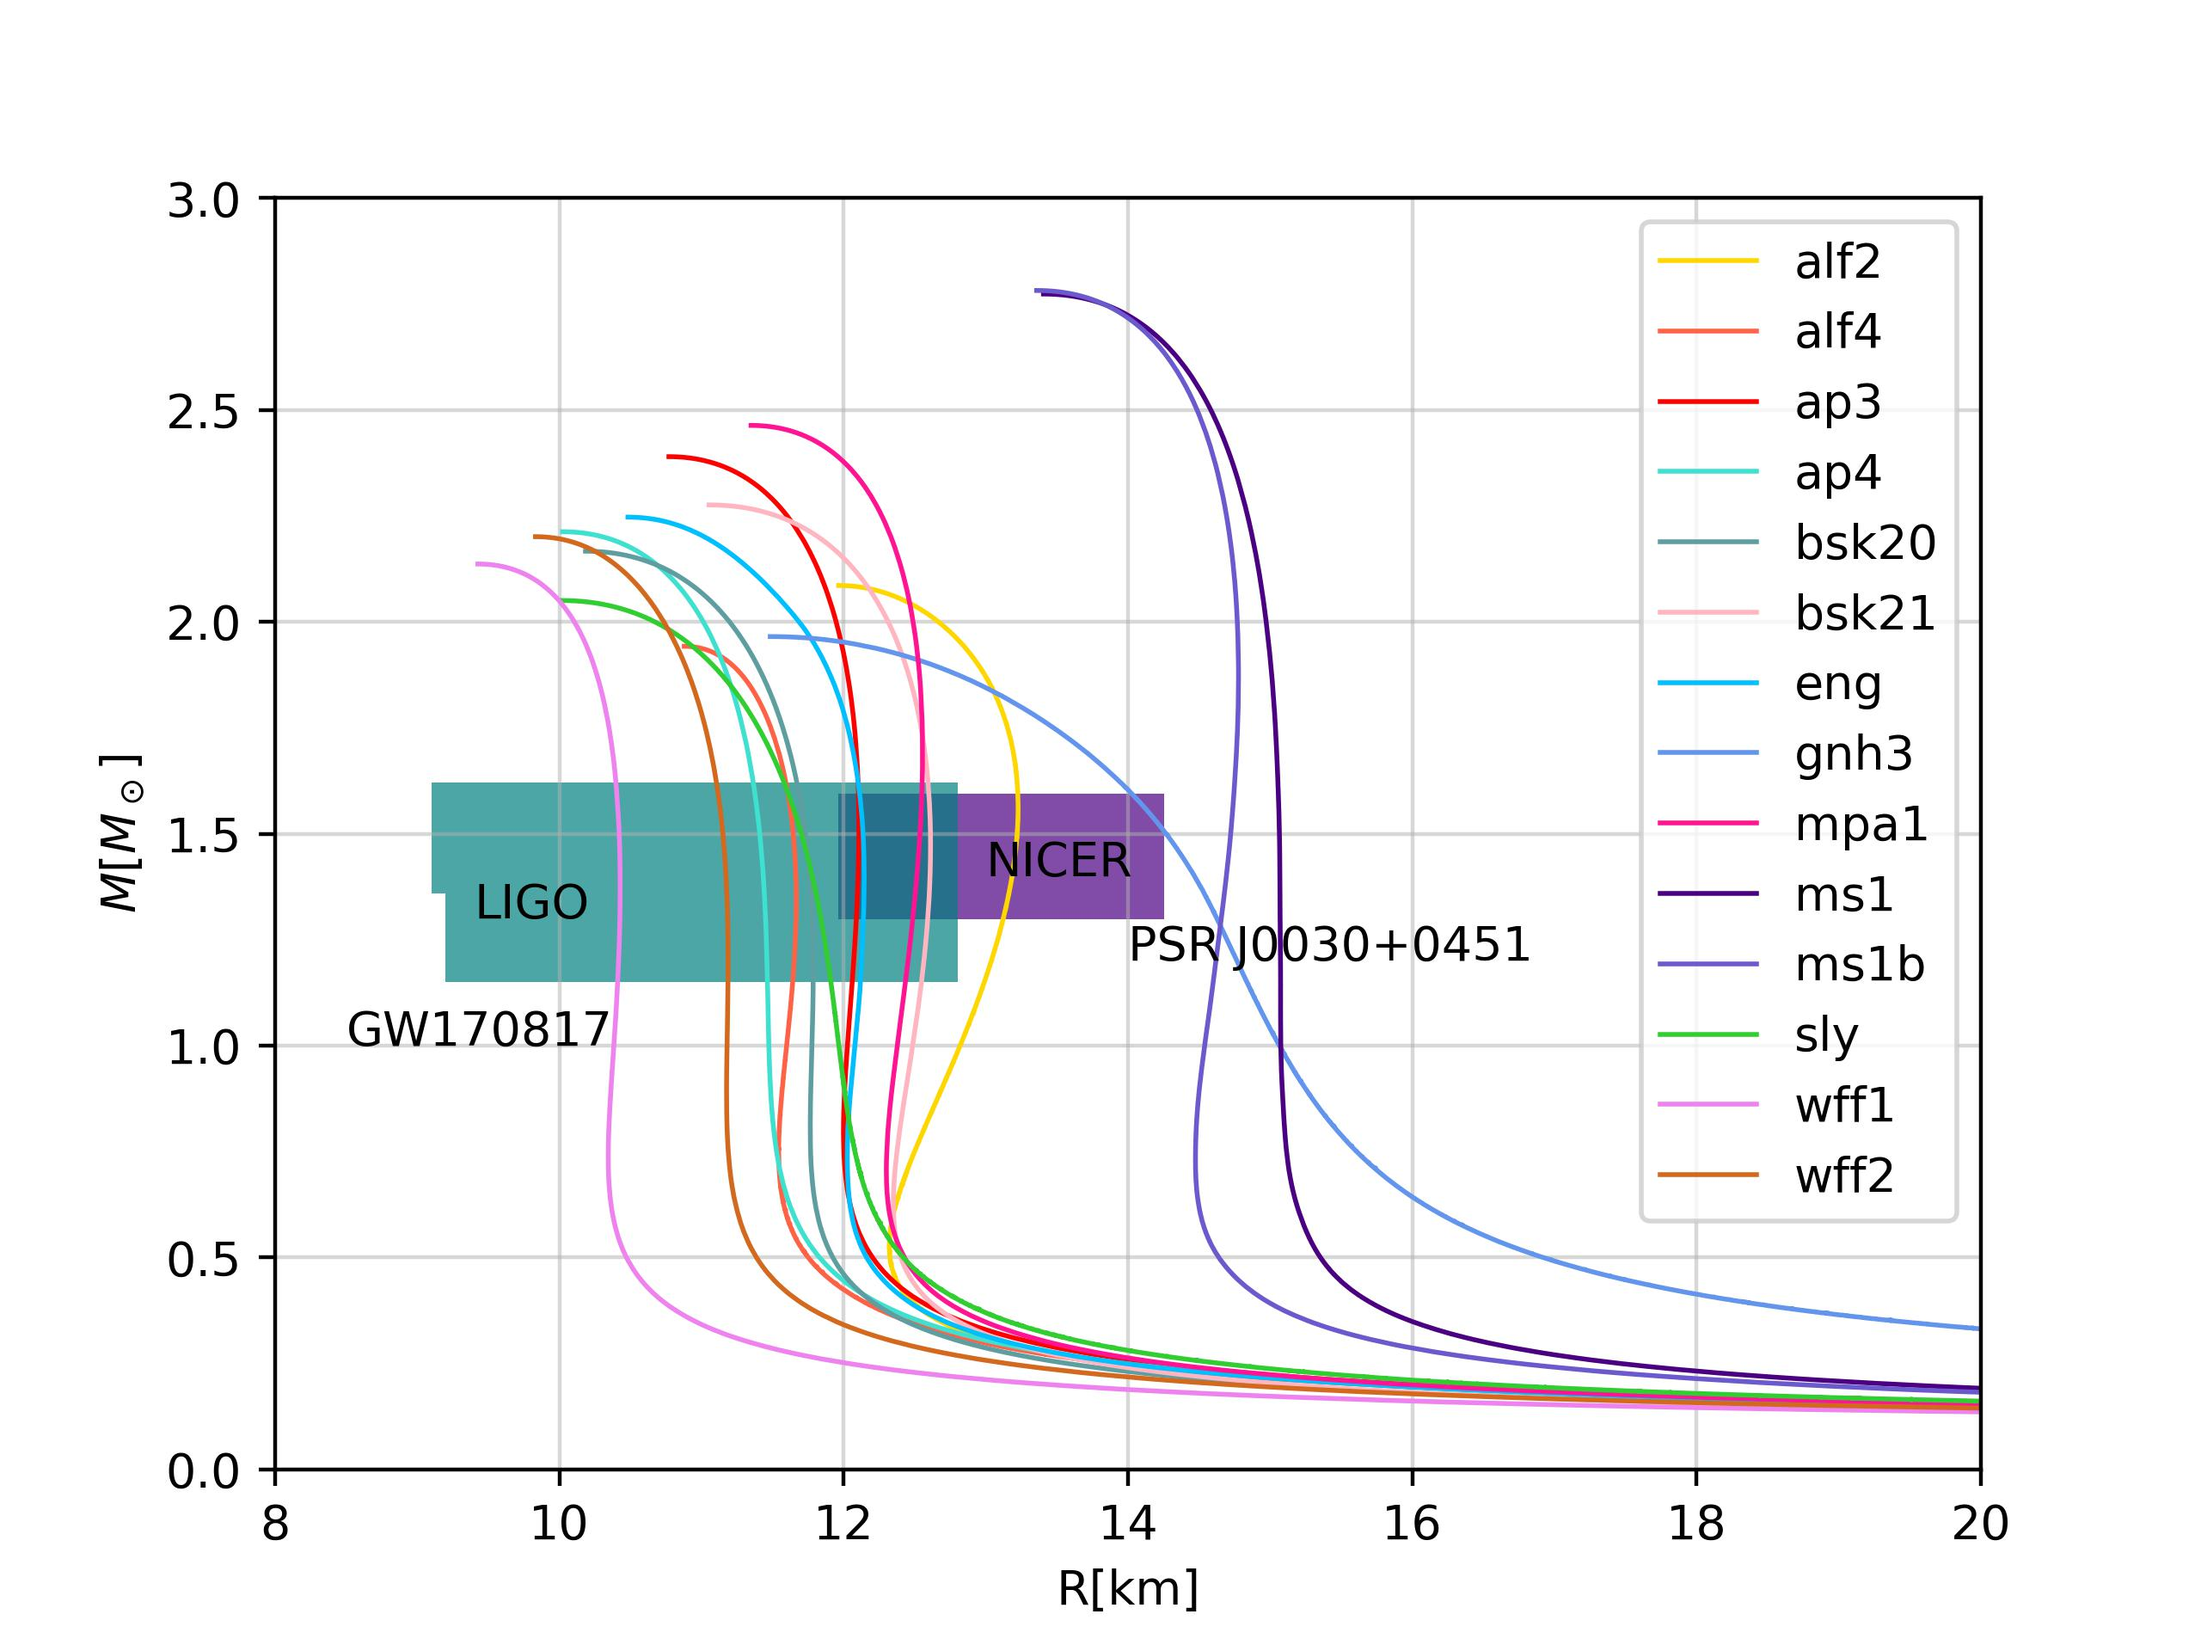
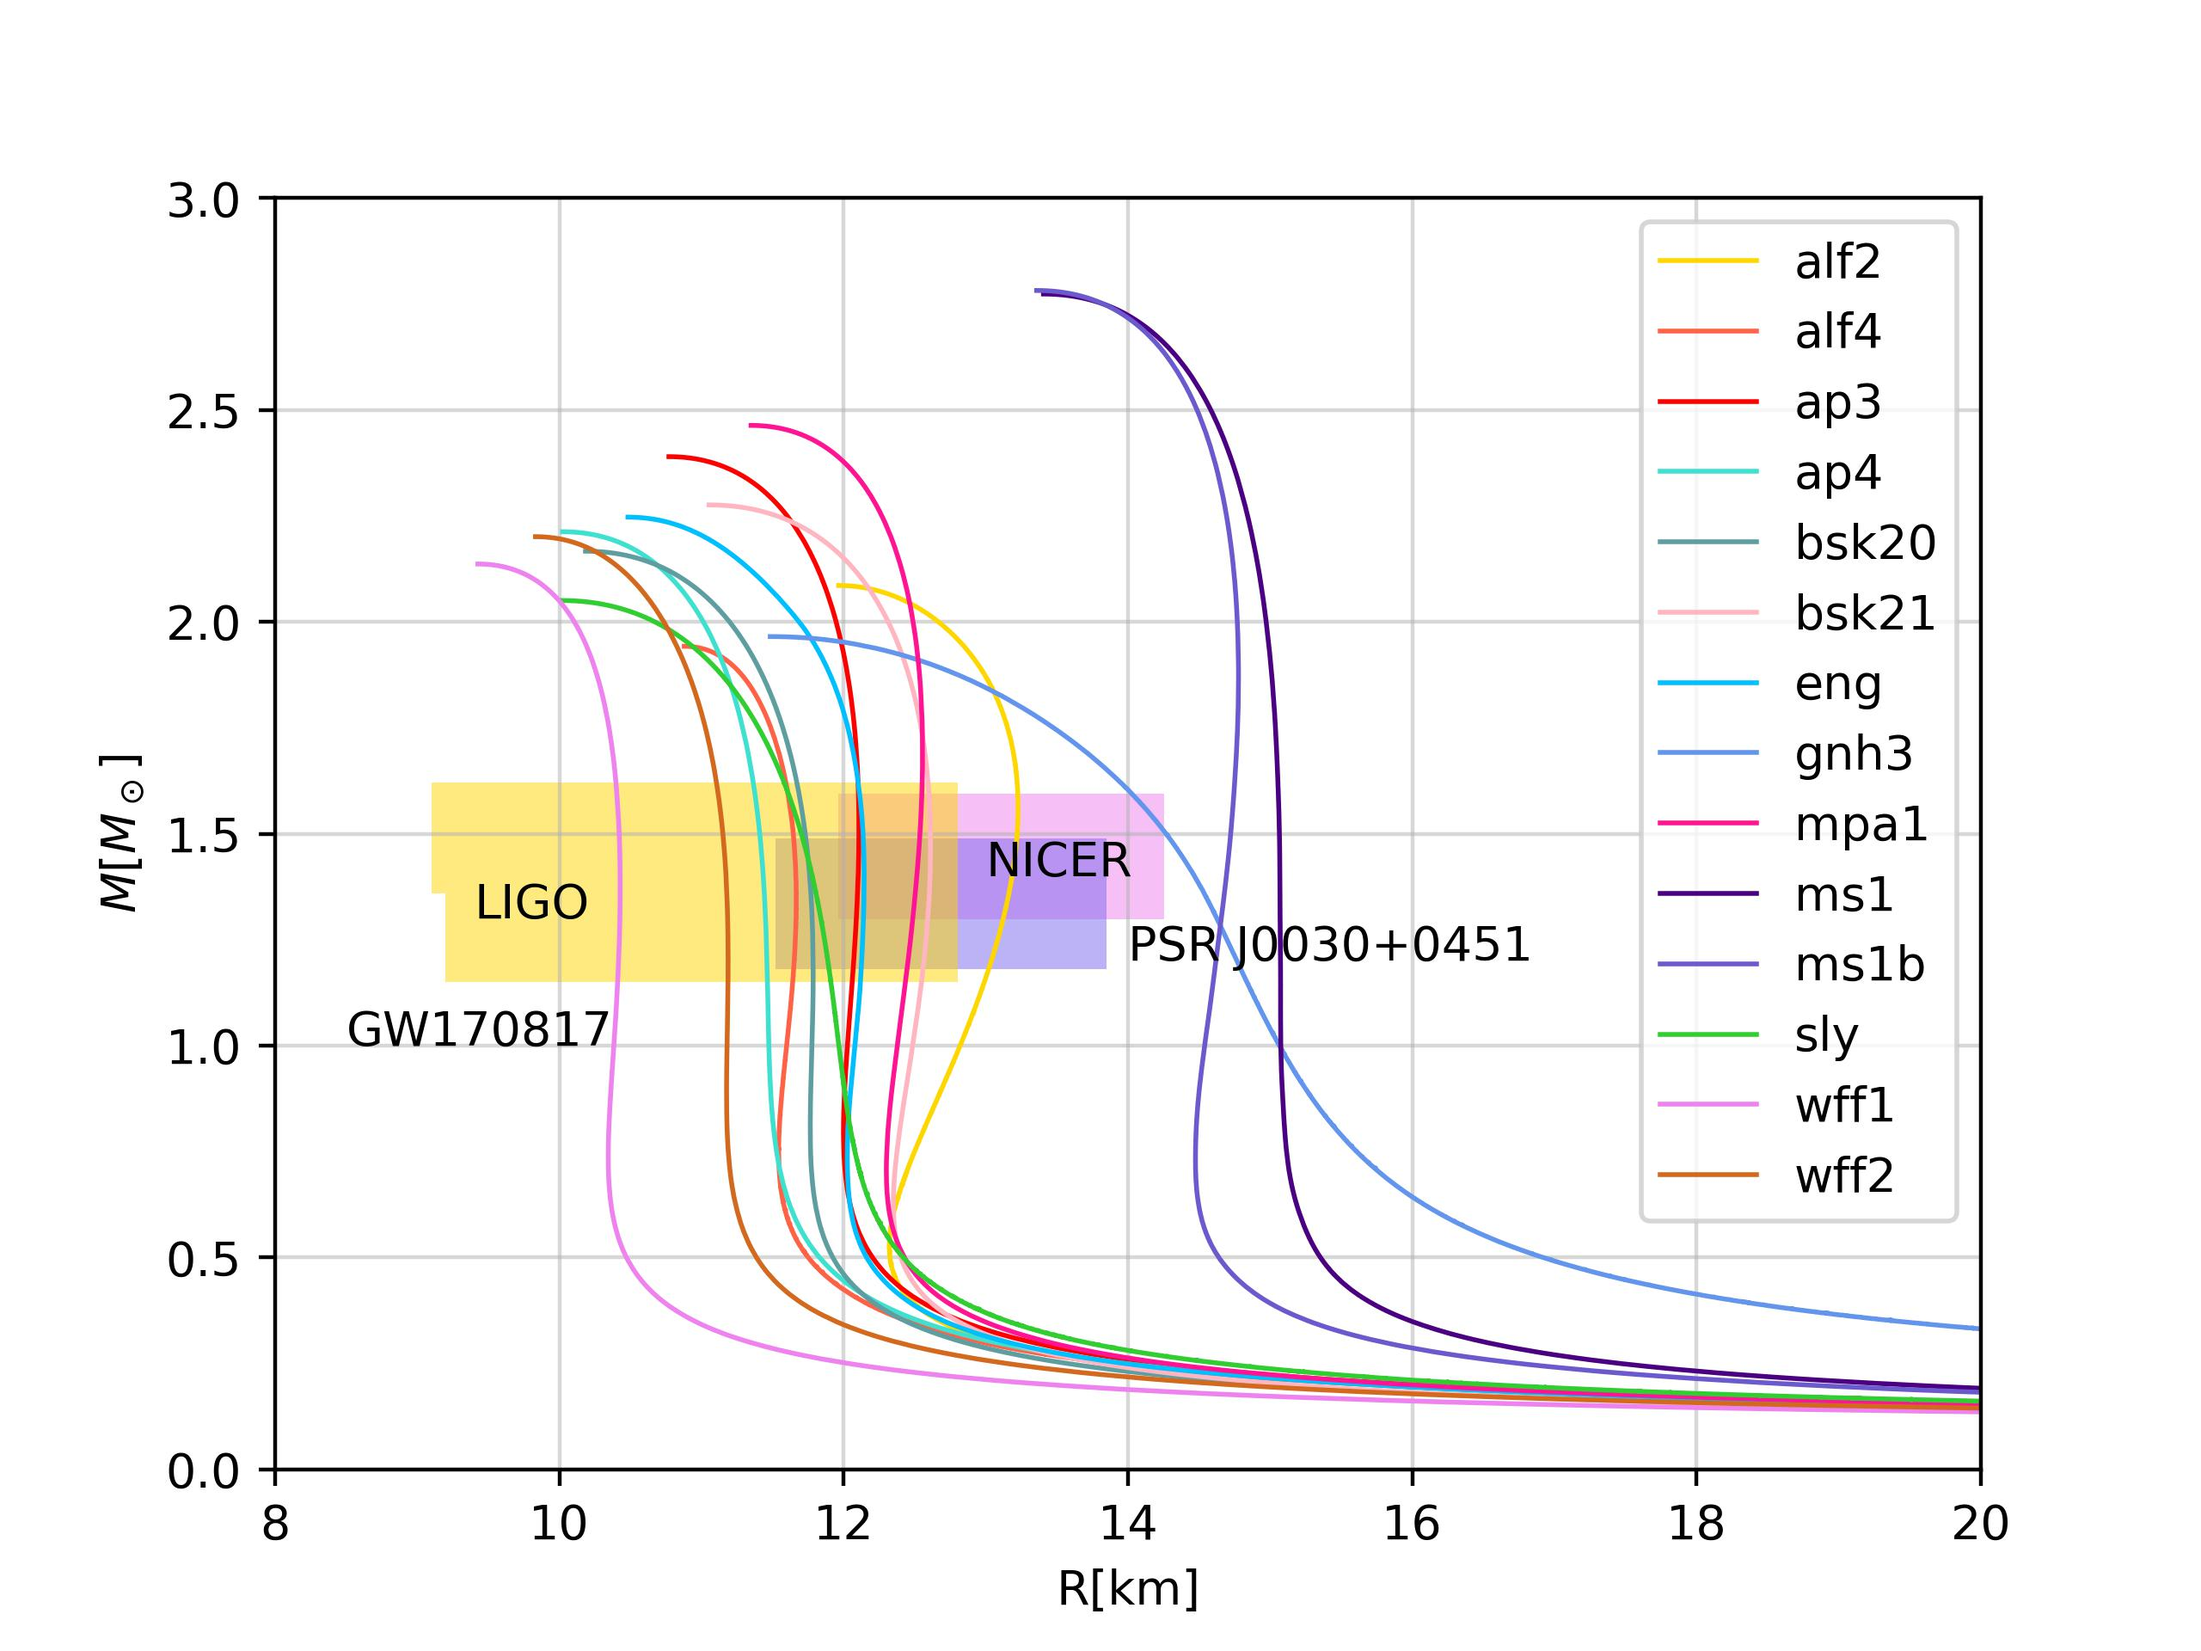
update

Changed region(s): [[0.1875, 0.4688, 0.5312, 0.5938]]

diff --git a/research.html b/research.html
@@ -92,6 +92,13 @@
 											</div>
 										</div>
 										<i>Mass-Radius and tidal deformability(dimensionless)-Mass relations for selected equations of state of neutron star matter</i>
+										<div class="box alt">
+											<div class="row gtr-50 gtr-uniform">
+												<div class="col-6"><span class="image fit"><img src="images/MR_Spec.jpg" alt="" /></span></div>
+												<div class="col-6"><span class="image fit"><img src="images/LoveM_Spec.jpg" alt="" /></span></div>
+											</div>
+										</div>
+										<i>Mass-Radius and tidal deformability(dimensionless)-Mass relations for 30 <a href="https://journals.aps.org/prd/abstract/10.1103/PhysRevD.82.103011">Spectral representation</a> EOSs</i>
 										<hr />
 										<h3>Fast sky localization</h3>
 										<p>When I was an undergraguate, I visited Prof. Linqing Wen at University of Western Australia for 3 months. There I carried 
